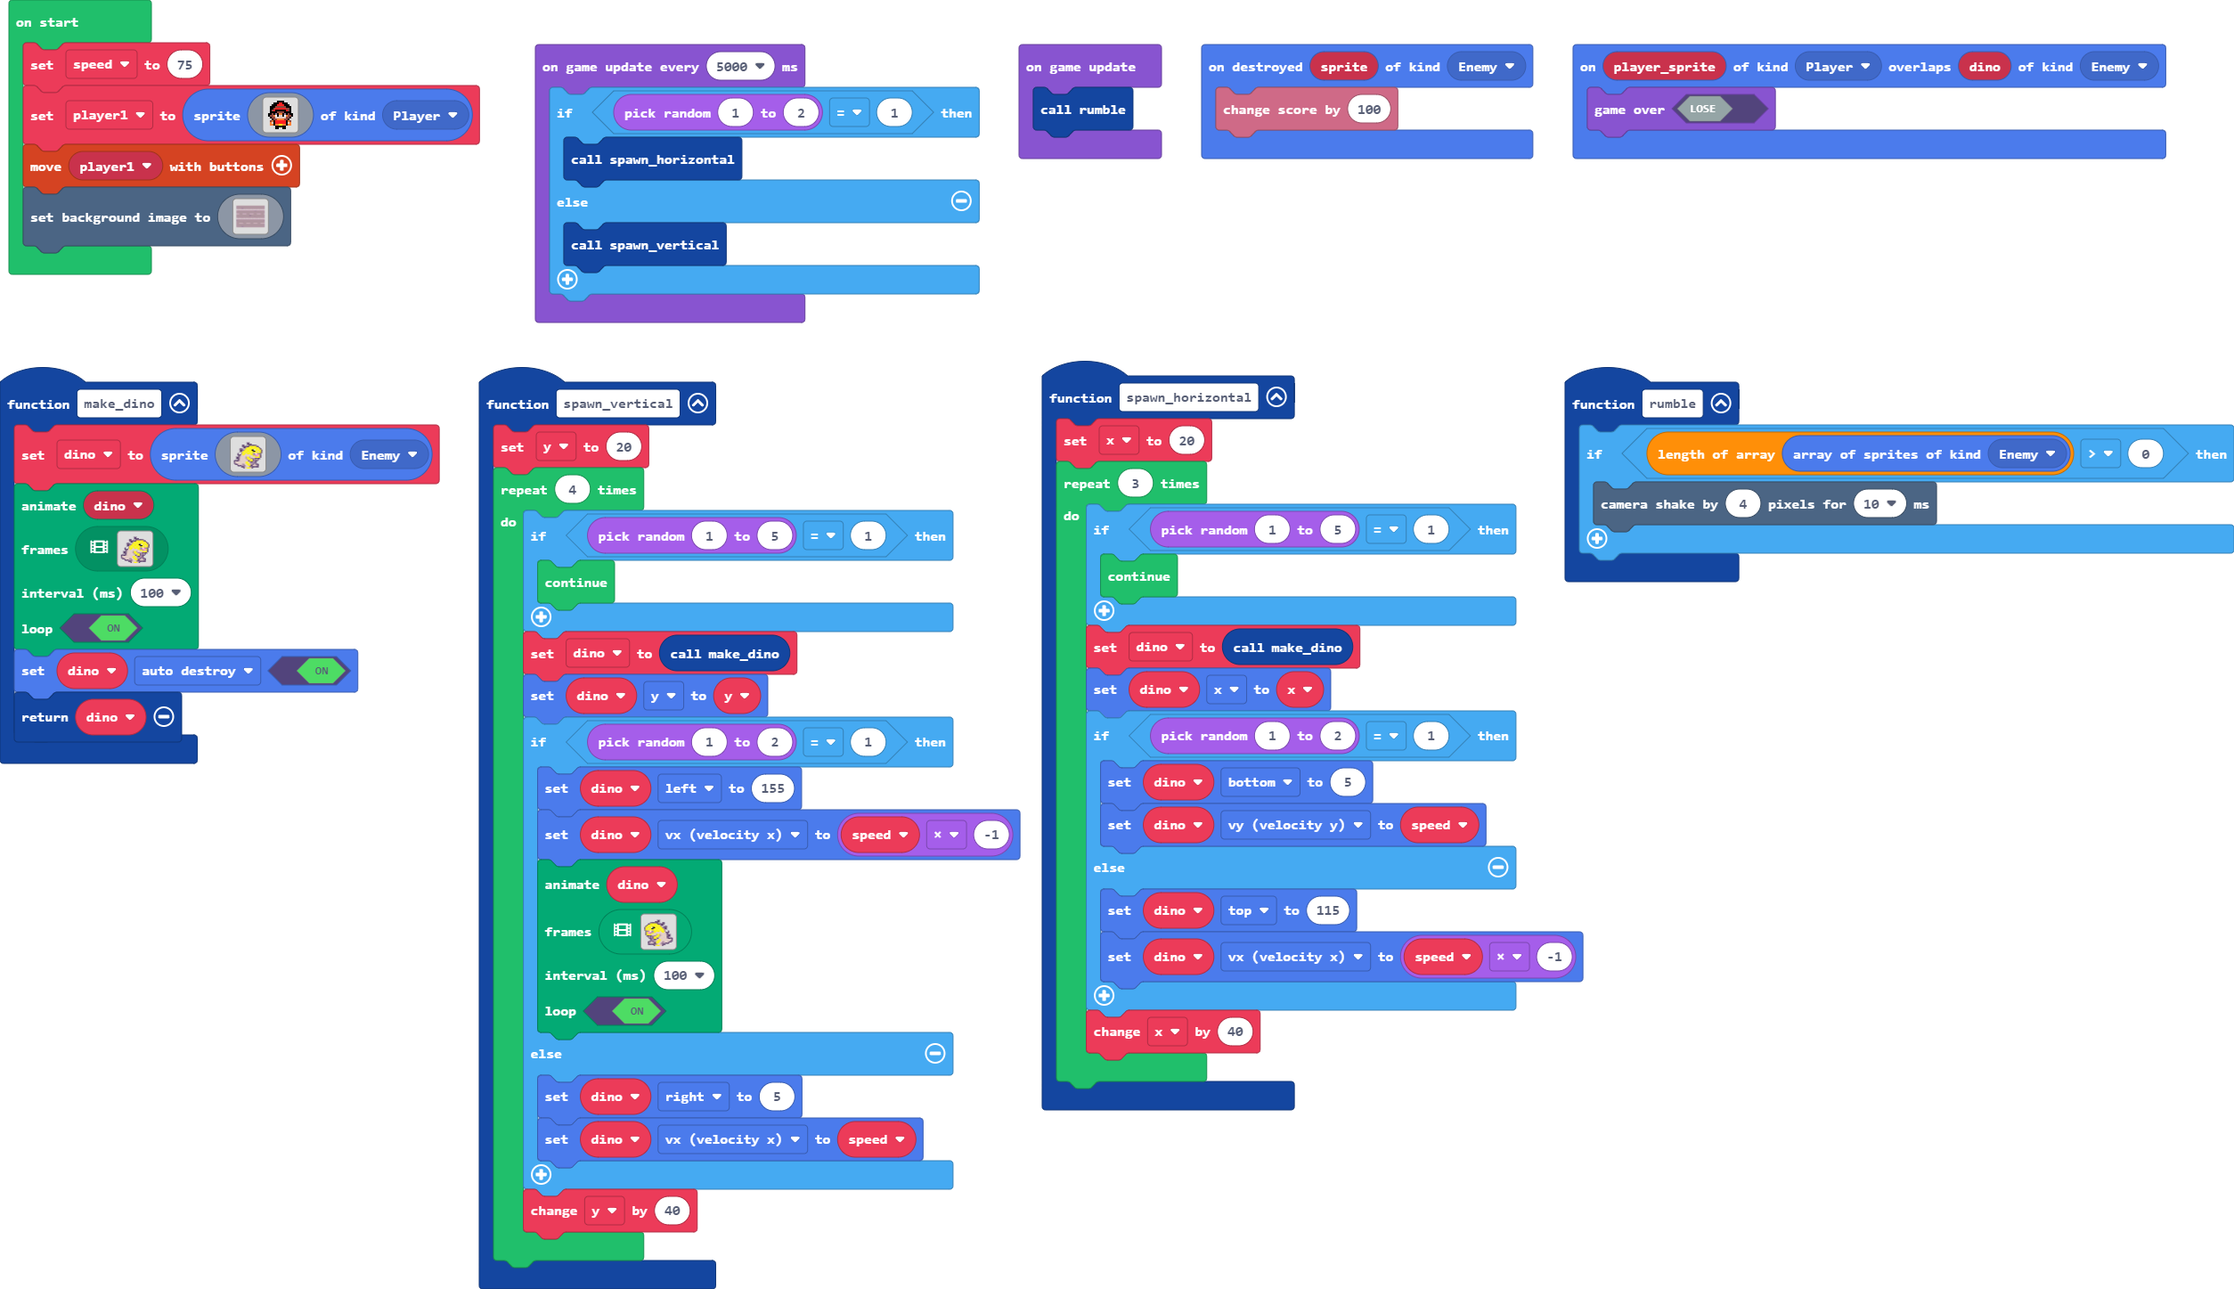
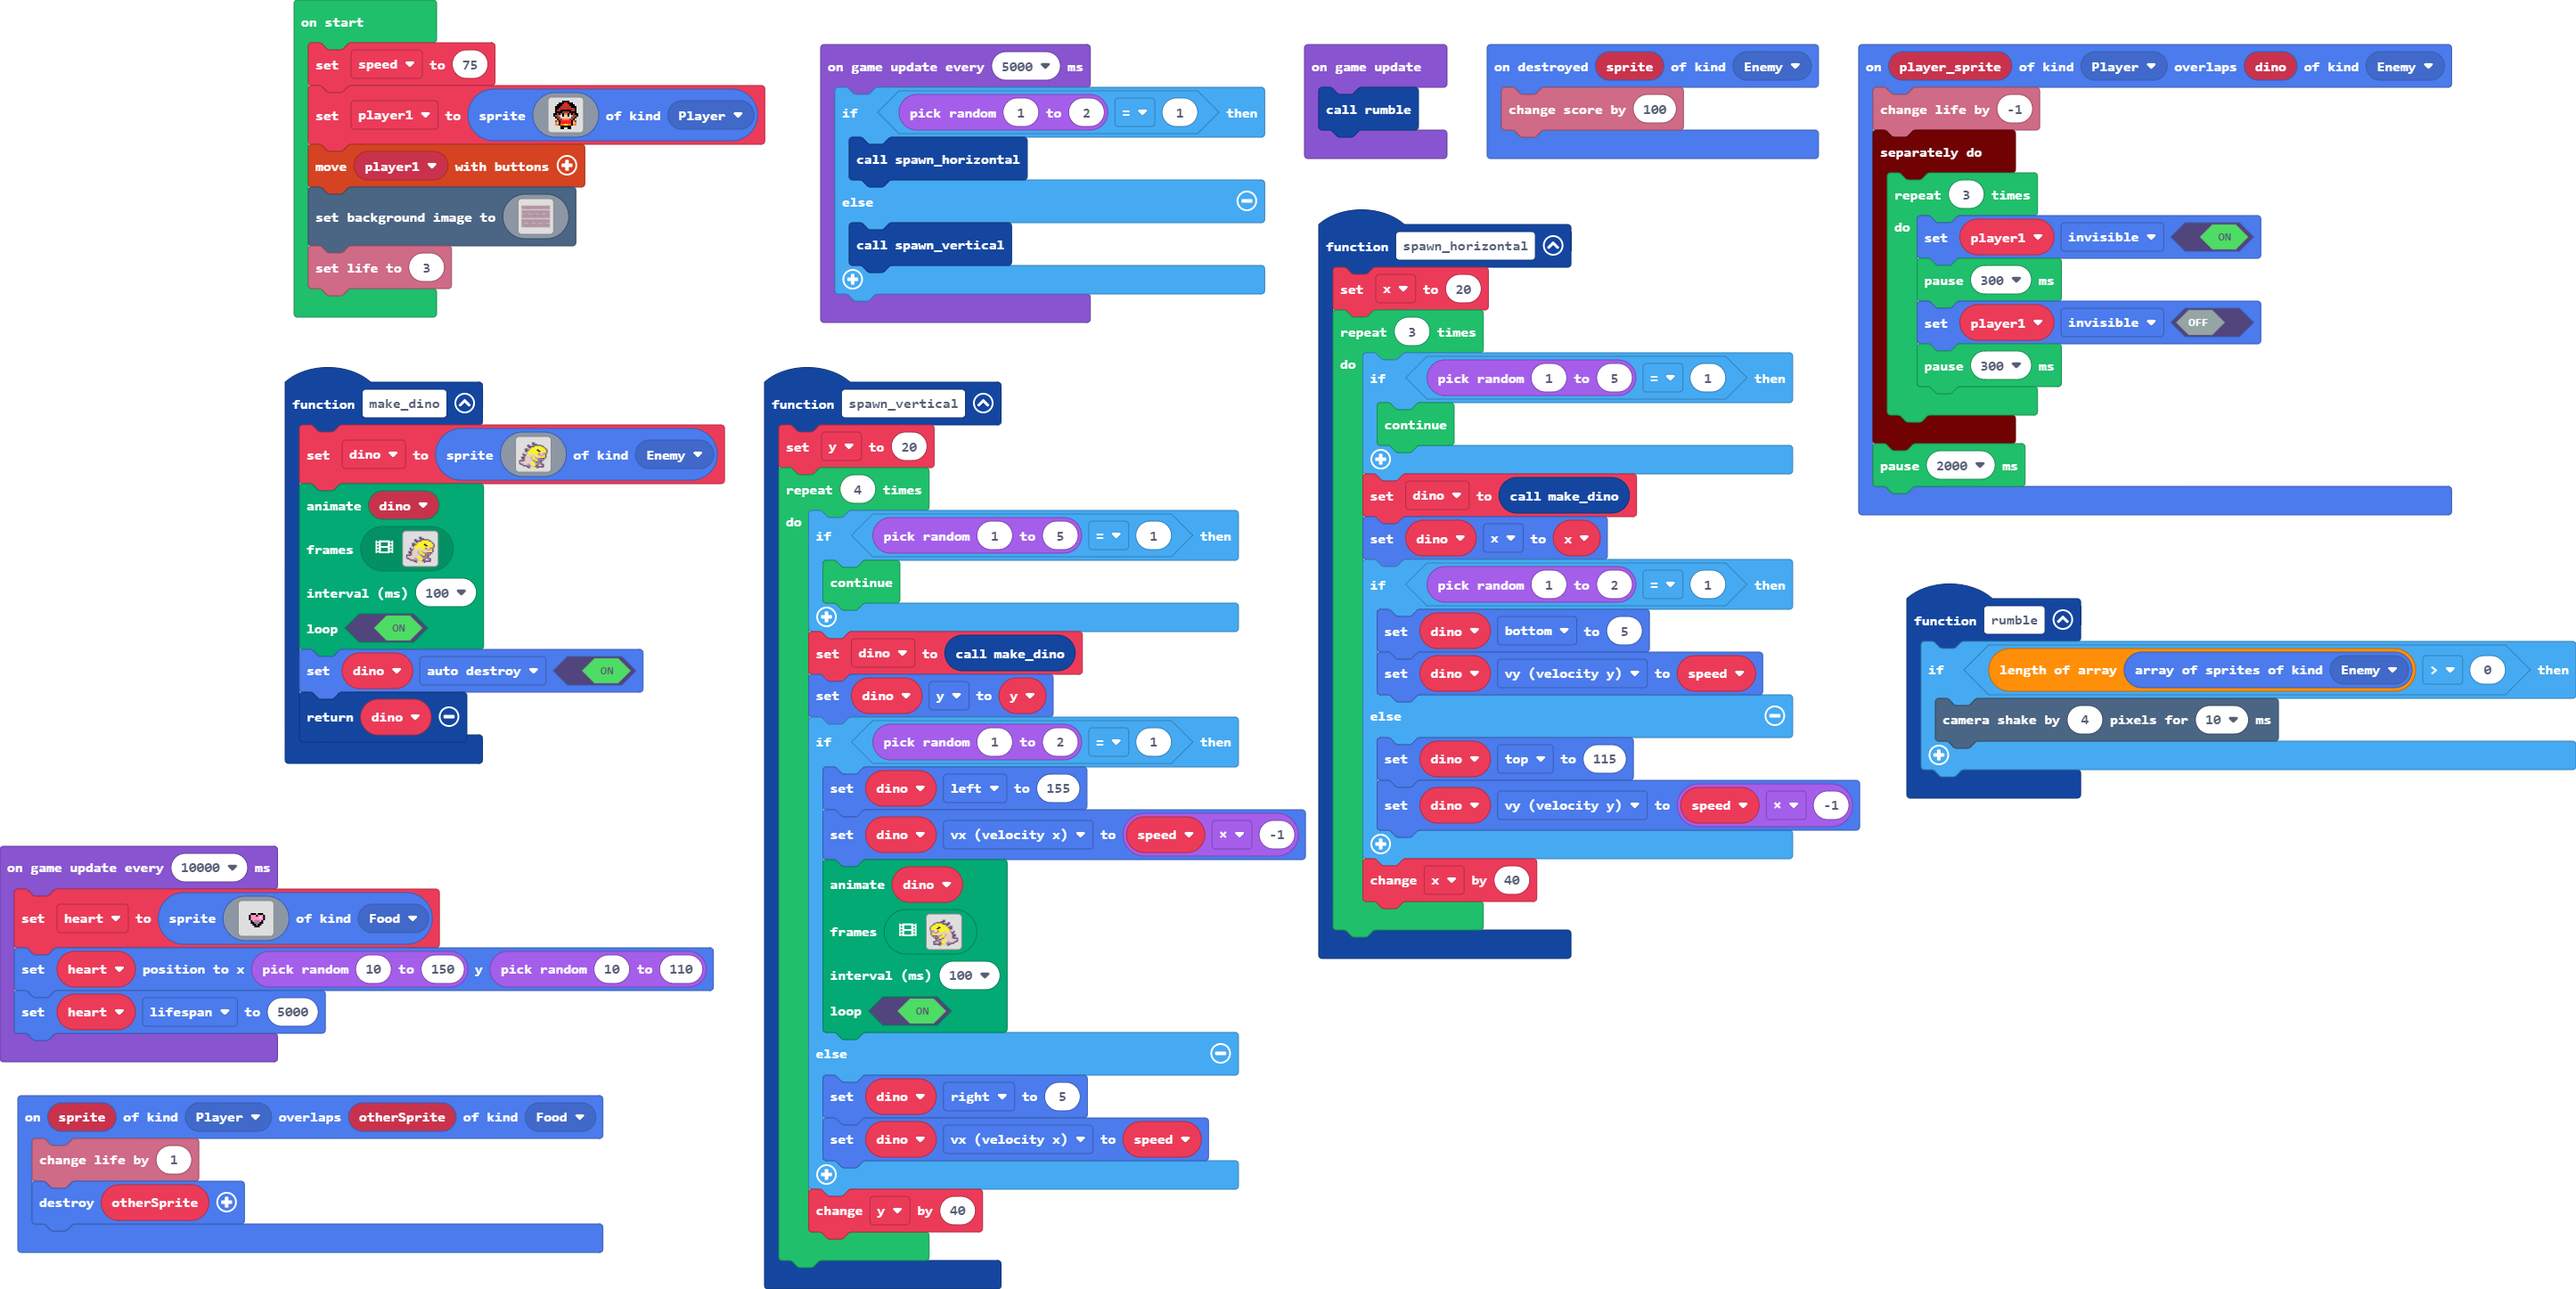
w1 content

diff --git a/main.ts b/main.ts
@@ -40,13 +40,22 @@ function spawn_horizontal () {
             dino.vy = speed
         } else {
             dino.top = 115
-            dino.vx = speed * -1
+            dino.vy = speed * -1
         }
         x += 40
     }
 }
 sprites.onOverlap(SpriteKind.Player, SpriteKind.Enemy, function (player_sprite, dino) {
-    game.gameOver(false)
+    info.changeLifeBy(-1)
+    timer.background(function () {
+        for (let index = 0; index < 3; index++) {
+            player1.setFlag(SpriteFlag.Invisible, true)
+            pause(300)
+            player1.setFlag(SpriteFlag.Invisible, false)
+            pause(300)
+        }
+    })
+    pause(2000)
 })
 function make_dino () {
     dino = sprites.create(assets.image`dino`, SpriteKind.Enemy)
@@ -59,17 +68,24 @@ function make_dino () {
     dino.setFlag(SpriteFlag.AutoDestroy, true)
     return dino
 }
+sprites.onOverlap(SpriteKind.Player, SpriteKind.Food, function (sprite, otherSprite) {
+    info.changeLifeBy(1)
+    sprites.destroy(otherSprite)
+})
 sprites.onDestroyed(SpriteKind.Enemy, function (sprite) {
     info.changeScoreBy(100)
 })
+let heart: Sprite = null
 let x = 0
 let dino: Sprite = null
 let y = 0
+let player1: Sprite = null
 let speed = 0
 speed = 75
-let player1 = sprites.create(assets.image`player1`, SpriteKind.Player)
+player1 = sprites.create(assets.image`player1`, SpriteKind.Player)
 controller.moveSprite(player1)
 scene.setBackgroundImage(assets.image`background`)
+info.setLife(3)
 game.onUpdate(function () {
     rumble()
 })
@@ -79,4 +95,9 @@ game.onUpdateInterval(5000, function () {
     } else {
         spawn_vertical()
     }
+})
+game.onUpdateInterval(10000, function () {
+    heart = sprites.create(assets.image`heart`, SpriteKind.Food)
+    heart.setPosition(randint(10, 150), randint(10, 110))
+    heart.lifespan = 5000
 })

diff --git a/images.g.ts b/images.g.ts
@@ -172,6 +172,25 @@ cbdddddddd555dbbbcc.....
 . . . . . f f f f f f . . . . . 
 . . . . . f f . . f f . . . . . 
 `;
+            case "image1":
+            case "heart":return img`
+. . . . . . . . . . . . . . . . 
+. . . . . . . . . . . . . . . . 
+. . . . . . . . . . . . . . . . 
+. . . . . . . . . . . . . . . . 
+. . . . . . . . . . . . . . . . 
+. . . . . f f f . f f f . . . . 
+. . . . f 3 3 3 f 3 3 3 f . . . 
+. . . . f 3 3 3 3 3 1 3 f . . . 
+. . . . f 3 3 3 3 3 3 3 f . . . 
+. . . . . f 3 b b b 3 f . . . . 
+. . . . . f f b b b f f . . . . 
+. . . . . . f f b f f . . . . . 
+. . . . . . . f f f . . . . . . 
+. . . . . . . . . . . . . . . . 
+. . . . . . . . . . . . . . . . 
+. . . . . . . . . . . . . . . . 
+`;
         }
         return null;
     })
